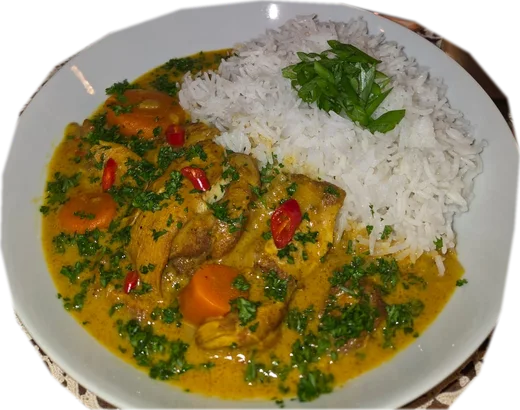
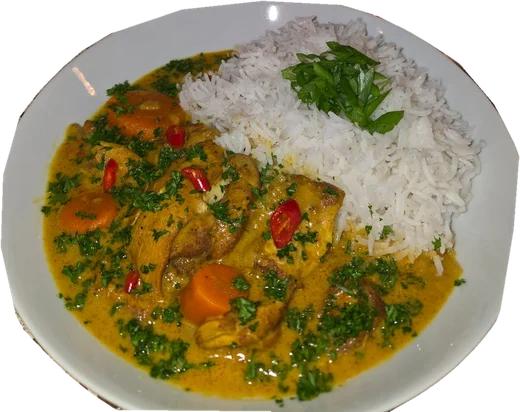
Interests collage: precise cut-outs with segmentation models
Re-cut the figure and all seven plates using BiRefNet (open-source
segmentation, run locally) for crisp food/person edges, combined with
GrabCut seeded from the traced rims for the white plates. Removes the sky
halo around the figure and the tablecloth/lace showing around plates
(notably the malai boti handi). Collage plates now load eagerly.

diff --git a/components/site/interests-collage.tsx b/components/site/interests-collage.tsx
@@ -32,7 +32,7 @@ export function InterestsCollage() {
       </svg>
 
       {plates.map((p) => (
-        <img key={p.cls} className={`ic-cut ic-plate ${p.cls}`} src={p.src} alt={p.alt} loading="lazy" decoding="async" />
+        <img key={p.cls} className={`ic-cut ic-plate ${p.cls}`} src={p.src} alt={p.alt} decoding="async" />
       ))}
       <div className="figure ic-figure-layer" aria-hidden="true">
         <img src="/images/collage/marko-roma-full.webp" alt="" decoding="async" />
